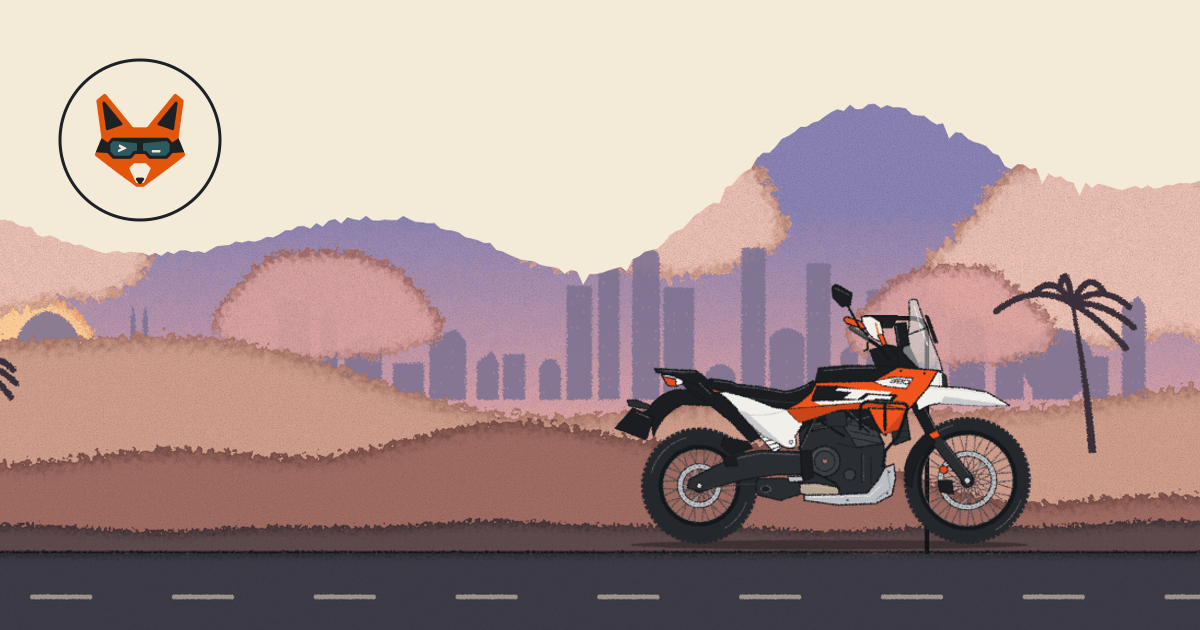
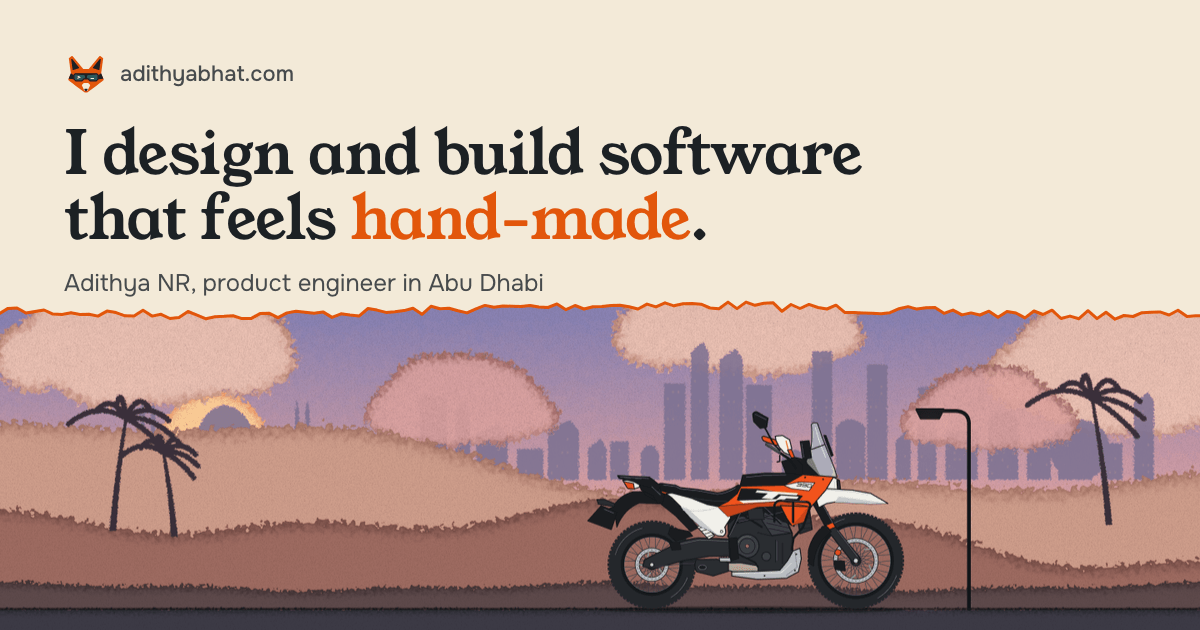
Social previews: a card per page in the new style
- New default card: the hero line in Young Serif over the dawn ride and
  the KTM, with a torn, inked edge. About, Builds, Writing, Photos, Uses
  and Contact get their own card over their own painting
  (scripts/art/make-og.mjs renders them with headless Chrome so the type
  is the site's own).
- Case studies use their thumbnail at 1200 x 630, padded in the dark
  template colour (client mockups are cropped). Posts use the Writing card.
- Meta: og:image:alt and twitter:image:alt, og:type article for case
  studies and posts, og:locale.

diff --git a/src/graphql/work.ts b/src/graphql/work.ts
@@ -48,7 +48,7 @@ export const BUILD_LOG = `
     project(filter: { slug: { eq: $slug } }) {
       id title caseStudy slug date link tags oneLiner role builtWith stamp builtFor parts
       metadata { description }
-      thumbnail { alt responsiveImage(imgixParams: { fit: crop, w: 648, h: 432, auto: format }) { srcSet webpSrcSet sizes src width height aspectRatio alt title base64 } }
+      thumbnail { url alt responsiveImage(imgixParams: { fit: crop, w: 648, h: 432, auto: format }) { srcSet webpSrcSet sizes src width height aspectRatio alt title base64 } }
       buildLog { value ${ST_BLOCKS} }
       seo: _seoMetaTags { attributes tag content }
     }
@@ -64,7 +64,7 @@ export const BUILD_LOG_LEGACY = `
     project(filter: { slug: { eq: $slug } }) {
       id title caseStudy slug date link tags
       metadata { description }
-      thumbnail { alt responsiveImage(imgixParams: { fit: crop, w: 648, h: 432, auto: format }) { srcSet webpSrcSet sizes src width height aspectRatio alt title base64 } }
+      thumbnail { url alt responsiveImage(imgixParams: { fit: crop, w: 648, h: 432, auto: format }) { srcSet webpSrcSet sizes src width height aspectRatio alt title base64 } }
       seo: _seoMetaTags { attributes tag content }
     }
     allProjects(orderBy: date_DESC) {
